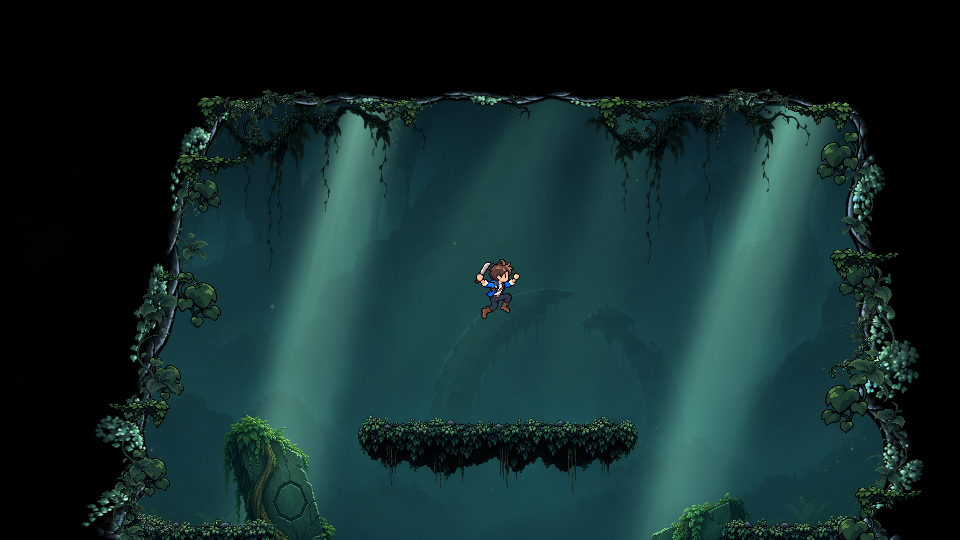
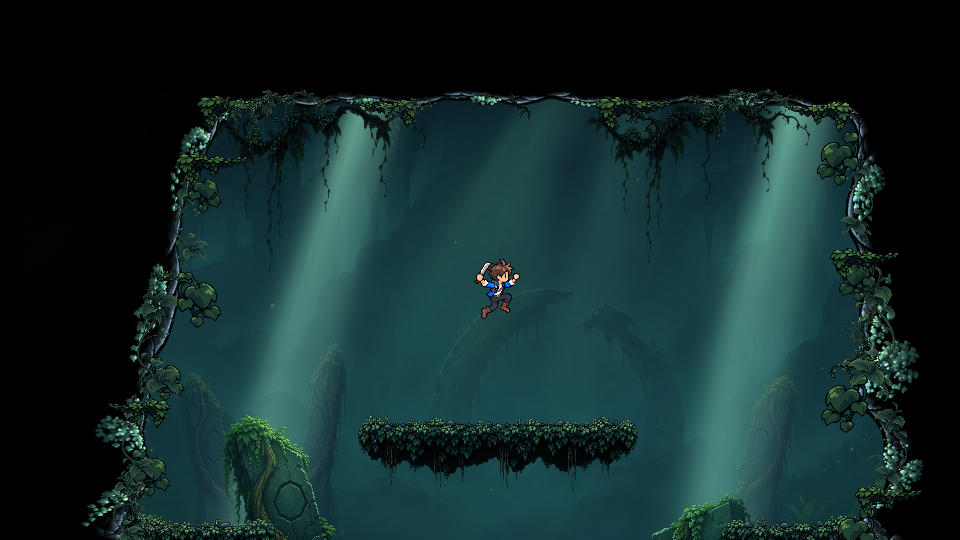
전투방 전경 조명을 잇고 원경 비석 추가

diff --git a/combat_room_lighting.py b/combat_room_lighting.py
@@ -22,16 +22,22 @@ class _Shaft:
 
 
 _SHAFTS = (
-    _Shaft(740, 480, 140, 210, (151, 232, 201), 170),
-    _Shaft(1605, 1270, 151, 223, (141, 226, 198), 186),
+    _Shaft(740, 436, 140, 210, (151, 232, 201), 170),
+    _Shaft(1605, 1380, 151, 223, (141, 226, 198), 186),
 )
 _ROWS = (
-    (0.00, 0.00), (.045, .13), (.15, .34), (.28, .53), (.40, .64),
+    (0.00, .08), (.045, .22), (.15, .39), (.28, .54), (.40, .64),
     (.53, .70), (.65, .77), (.77, .84), (.87, .90), (.95, .98), (1.00, 1.00),
 )
 _COLUMNS = tuple(i / 9 for i in range(-9, 10))
 _RIM_COLOR = (204, 238, 212)
-_FOREGROUND_POOLS = ((350, -52, 148, 101), (1540, -73, 185, 110))
+
+
+def _tint_from_shafts(x, height, tint, strength):
+    exposure = max(exp(-3.2 * ((x - shaft.center(height)) / shaft.radius(height)) ** 2)
+                   for shaft in _SHAFTS)
+    weight = max(0.0, (exposure - .07) / .93) * strength
+    return tuple(round(ambient + (lit - ambient) * weight) for ambient, lit in zip(tint, _RIM_COLOR))
 
 
 @lru_cache(maxsize=8)
@@ -75,15 +81,16 @@ class CombatRoomLighting:
                 self.scenery.soft_light(camera, (shaft.center(.13), ceiling * .13),
                                         (132, 104), shaft.color, 22)
 
-    def draw_floor_bounce(self, camera, ceiling, *, banks=None):
-        """The localized reflection hugs the floor and stays above the exit shaft."""
+    def draw_floor_bounce(self, camera, *, banks=None):
+        """Carry the shaft footprint across the exposed stone lip of each bank."""
         banks = ((0, self.scenery.room_width),) if banks is None else banks
         with self.scenery.alpha_geometry():
             for left, right in banks:
-                with self.scenery.room_clip(camera, left, right, ceiling) as visible:
+                with self.scenery.room_clip(camera, left, right, 22, bottom=-5) as visible:
                     if visible:
                         for shaft in _SHAFTS:
-                            self.scenery.soft_light(camera, (shaft.floor_x, 4), (164, 25), shaft.color, 51)
+                            self.scenery.soft_light(camera, (shaft.floor_x, 2),
+                                                    (shaft.floor_radius * .82, 19), shaft.color, 55)
 
     def draw_ledge_bounce(self, camera, ceiling, platforms):
         """Catch a little green light along each exposed stone lip."""
@@ -96,30 +103,12 @@ class CombatRoomLighting:
                             self.scenery.soft_light(camera, (shaft.center(height), top - 1),
                                                     (shaft.radius(height) * .91, 8), shaft.color, 40)
 
-    def draw_foreground_air(self, camera):
-        """A little reflected light scatters in front of the leaves below the walk line."""
-        with self.scenery.room_clip(camera, 0, self.scenery.room_width, 0, bottom=-190) as visible:
-            if visible:
-                with self.scenery.alpha_geometry():
-                    for (x, y, rx, ry), shaft in zip(_FOREGROUND_POOLS, _SHAFTS):
-                        spill_x = shaft.floor_x + (x - shaft.floor_x) * .45
-                        self.scenery.soft_light(camera, (spill_x, -22), (rx, ry * .38), shaft.color, 27)
-                        self.scenery.soft_light(camera, (x, y + 12), (rx * .77, ry * .82), shaft.color, 55)
-
     def surface_tint(self, x, y, ceiling, tint, strength=1.0):
         """Light airborne and floor vegetation close to either shaft's footprint."""
         height = min(1.0, max(0.0, y / ceiling))
-        exposure = max(
-            exp(-3.2 * ((x - shaft.center(height)) / shaft.radius(height)) ** 2)
-            for shaft in _SHAFTS
-        )
-        weight = max(0.0, (exposure - .07) / .93) * strength
-        return tuple(round(ambient + (lit - ambient) * weight) for ambient, lit in zip(tint, _RIM_COLOR))
+        return _tint_from_shafts(x, height, tint, strength)
 
     def foreground_tint(self, x, y, tint, strength=1.0):
-        """Reflected light reaches only the inner edge of the near leaves and roots."""
-        exposure = max(exp(-((x - cx) / rx) ** 2 - ((y - cy) / ry) ** 2)
-                       for cx, cy, rx, ry in _FOREGROUND_POOLS)
-        weight = strength * exposure
-        return tuple(round(ambient + (lit - ambient) * weight)
-                     for ambient, lit in zip(tint, (250, 255, 198)))
+        """Let the floor light catch the nearest leaf tips and fade down into the roots."""
+        fade = max(0.0, 1 - abs(y - 4) / 93) ** 1.5
+        return _tint_from_shafts(x, 0, tint, strength * fade)

diff --git a/combat_scenery.py b/combat_scenery.py
@@ -5,6 +5,7 @@ from contextlib import contextmanager
 from ctypes import byref, c_int
 from math import ceil, cos, floor, radians, sin, tau
 
+from PIL import Image
 from pico2d import pico2d as pico
 
 from combat_room_lighting import CombatRoomLighting
@@ -15,12 +16,39 @@ from player import ASSET_ROOT
 COMBAT_BACKGROUND_TINT = (172, 191, 224)
 COMBAT_ART_PATH = ASSET_ROOT / "terrain" / "combat-room-v2"
 COMBAT_ART = json.loads((COMBAT_ART_PATH / "manifest.json").read_text(encoding="utf-8"))
+FAR_STELES = (
+    (342, 110, 172, 428, ""),
+    (565, 126, 143, 471, "h"),
+    (1430, 134, 184, 397, "h"),
+)
 MIDGROUND_RUINS = (
     ("midground-stele", 416, -30, 332, 492),
     ("midground-broken-arch", 1110, -36, 432, 354),
 )
 FALLING_ROCKS = ((.10, .05, 19, -26), (.29, .02, -8, 34), (.48, 0, -24, -21),
                  (.68, .035, 16, 25), (.89, .06, 26, -32))
+
+
+def _load_distant_stele():
+    """Mix the stele with the cavern air and keep its original cutout."""
+    with Image.open(COMBAT_ART_PATH / "midground-stele.png") as source:
+        stele = source.convert("RGBA")
+    stele.thumbnail((360, 450), Image.Resampling.LANCZOS)
+    air = Image.new("RGB", stele.size, (23, 53, 66))
+    distant = Image.blend(stele.convert("RGB"), air, .76)
+    distant.putalpha(stele.getchannel("A"))
+
+    width, height = distant.size
+    texture = pico.SDL_CreateTexture(pico.renderer, pico.SDL_PIXELFORMAT_RGBA32,
+                                     pico.SDL_TEXTUREACCESS_STATIC, width, height)
+    if not texture:
+        raise RuntimeError(pico.SDL_GetError())
+    image = pico.Image(texture)
+    if pico.SDL_UpdateTexture(texture, None, distant.tobytes(), width * 4) != 0:
+        raise RuntimeError(pico.SDL_GetError())
+    pico.SDL_SetTextureBlendMode(texture, pico.SDL_BLENDMODE_BLEND)
+    pico.SDL_SetTextureScaleMode(texture, pico.SDL_ScaleModeLinear)
+    return image
 
 
 class CombatScenery:
@@ -34,6 +62,7 @@ class CombatScenery:
         for image in self.images.values():
             pico.SDL_SetTextureScaleMode(image.texture, pico.SDL_ScaleModeLinear)
         pico.SDL_SetTextureColorMod(self.images["background"].texture, *COMBAT_BACKGROUND_TINT)
+        self.distant_stele = _load_distant_stele()
         self.seedpods = pico.load_image(str(ASSET_ROOT / "terrain" / "moss-combat-seedpods-v1.png"))
         pico.SDL_SetTextureAlphaMod(self.seedpods.texture, 205)
         self.lighting = CombatRoomLighting(self)
@@ -115,9 +144,13 @@ class CombatScenery:
             if not visible:
                 return
             width = self.room_width * 1.14
-            x = (left + right - width) / 2 + camera.x * .10
-            far_bottom = -80 + camera.y * .10
+            far_dx, far_dy = camera.x * .10, camera.y * .10
+            x = (left + right - width) / 2 + far_dx
+            far_bottom = -80 + far_dy
             self.draw_sprite("background", camera, x, far_bottom, width, ceiling + 176)
+            for sx, sy, sw, sh, flip in FAR_STELES:
+                center = camera.world_to_screen(sx + sw / 2 + far_dx, sy + sh / 2 + far_dy)
+                self.distant_stele.composite_draw(0, flip, *center, sw * camera.zoom, sh * camera.zoom)
             # Keep the illustration's central glow behind the two brighter world-space shafts.
             with self.alpha_geometry():
                 self.soft_light(camera, (x + width * .566, far_bottom + ceiling * .945),
@@ -206,7 +239,7 @@ class CombatScenery:
         self.draw_sprite("vine-joint", camera, 244, 151, 126, 196)
         self.draw_sprite("vine-wall", camera, 1670, 489, 91, 204)
         banks = ((0, exit_left), (exit_right, self.room_width)) if broken else None
-        self.lighting.draw_floor_bounce(camera, ceiling, banks=banks)
+        self.lighting.draw_floor_bounce(camera, banks=banks)
         self.lighting.draw_ledge_bounce(camera, ceiling, platforms)
         self.vegetation.draw_terrain(camera, ceiling, exit_left, exit_right, broken=broken,
                                      tint_at=self.vegetation_tint(ceiling))
@@ -243,7 +276,6 @@ class CombatScenery:
 
             self.draw_lit_sprite("foreground", camera, 0, -318, self.room_width, 350,
                                  shade, columns=17, rows=6)
-            self.lighting.draw_foreground_air(camera)
 
     def draw_shaft(self, camera, exit_left, visibility):
         image = self.images["shaft"]

diff --git a/tests/test_combat_scenery.py b/tests/test_combat_scenery.py
@@ -3,6 +3,7 @@ import gc
 import os
 import unittest
 from ctypes import byref, c_ubyte
+from unittest.mock import patch
 
 os.environ["SDL_VIDEODRIVER"] = "dummy"
 os.environ["SDL_AUDIODRIVER"] = "dummy"
@@ -89,21 +90,36 @@ class CombatSceneryTests(unittest.TestCase):
         pico.SDL_RenderSetClipRect(pico.renderer, None)
         pico.SDL_SetRenderDrawBlendMode(pico.renderer, pico.SDL_BLENDMODE_BLEND)
 
-    def test_front_light_reaches_both_banks_without_covering_combat_or_shaft(self):
-        pico.SDL_SetRenderDrawColor(pico.renderer, 0, 0, 0, 255)
-        pico.SDL_RenderClear(pico.renderer)
-        self.scenery.lighting.draw_foreground_air(self.camera)
-        pixels = self.pixels()
+    def test_front_light_brightens_leaf_surfaces_near_both_floor_contacts(self):
+        clear_color = bytes((251, 9, 189, 255))
 
-        def color(x, y):
-            start = (y * 960 + x) * 4
-            return tuple(pixels[start:start + 3])
+        def foreground():
+            pico.SDL_SetRenderDrawColor(pico.renderer, *clear_color)
+            pico.SDL_RenderClear(pico.renderer)
+            self.scenery.draw_foreground(self.camera, COMBAT_LEFT_WALL,
+                                          COMBAT_RIGHT_WALL, COMBAT_CEILING_Y)
+            return self.pixels()
 
-        self.assertGreater(color(175, 452)[1], 20)
-        self.assertGreater(color(770, 462)[1], 20)
-        self.assertEqual(color(480, 452), (0, 0, 0))
-        self.assertEqual(color(175, 421), (0, 0, 0))
-        self.assertEqual(color(770, 421), (0, 0, 0))
+        with patch.object(self.scenery.lighting, "foreground_tint",
+                          side_effect=lambda x, y, tint, strength=1.0: tint):
+            unlit = foreground()
+        lit = foreground()
+
+        stride = 960 * 4
+        self.assertEqual(lit[:416 * stride], unlit[:416 * stride])
+        self.assertEqual(lit[495 * stride:], unlit[495 * stride:])
+        for row in range(416, 495):
+            start, end = row * stride + 400 * 4, row * stride + 560 * 4
+            self.assertEqual(lit[start:end], unlit[start:end])
+
+        for x_min, x_max in ((165, 280), (635, 752)):
+            green_channels = ((y * 960 + x) * 4 + 1 for y in range(416, 480)
+                              for x in range(x_min, x_max))
+            self.assertGreater(sum(lit[index] > unlit[index] for index in green_channels), 20)
+
+        self.assertTrue(all(lit[index:index + 4] == clear_color
+                            for index in range(416 * stride, 495 * stride, 4)
+                            if unlit[index:index + 4] == clear_color))
 
     def test_new_foreground_tracks_world_points_during_a_camera_pan(self):
         def foreground():

diff --git a/combat_vegetation.py b/combat_vegetation.py
@@ -103,8 +103,8 @@ FLOOR_EDGE = (
 NEAR_BANK = (
     Plant("near-shadow-rounded-leaves", 115, -130, 240, (109, 143, 147)),
     Plant("shadow-low-moss-lobes", 230, -83, 181, (105, 147, 152), True),
-    Plant("shadow-fern-scroll", 345, -95, 98, (109, 146, 151), True),
-    Plant("near-shadow-ribbon-grass", 1575, -102, 255, (100, 140, 145), True),
+    Plant("shadow-fern-scroll", 414, -96, 95, (109, 146, 151), True),
+    Plant("near-shadow-ribbon-grass", 1440, -69, 230, (100, 140, 145), True),
     Plant("near-shadow-rounded-leaves", 1801, -121, 261, (112, 147, 158), True),
     Plant("shadow-fern-scroll", 1701, -112, 92, (111, 151, 151)),
 )

diff --git a/README.md b/README.md
@@ -39,7 +39,7 @@
 
 이끼 동굴 구간의 최신 미술은 [미술 방향 문서](docs/environment-art-direction.md)를 따릅니다. 첫 시작 동굴과 처음 추락하는 착지방은 기존 모습으로 유지하고, 옆 이끼 통로·전투방·하강에는 검은 지형 내부, 작은 돌과 이끼 가장자리, 푸른 원경과 전경 뿌리를 적용했습니다. [이끼 통로](docs/green-style-gallery.png) · [배경 시차 GIF](docs/green-style-gallery-parallax.gif) · [전투방](docs/green-style-combat.png) · [하강 통로](docs/green-style-shaft.png).
 
-이끼 통로 오른쪽 끝의 낮은 왼쪽 입구를 통과하면 이끼 동굴 전투방으로 들어갑니다. 먼 석조 고리 앞에 기울어진 비석과 부서진 아치가 있고, 벽과 바닥을 따라 이끼와 고사리가 자랍니다. 천장 틈에서 내려오는 두 빛줄기는 먼 안개를 밝히고 유적 가장자리와 발판·바닥에 닿습니다. 화면 앞쪽의 잎과 뿌리에도 청록빛이 은은하게 반사됩니다. 왼쪽 출구로 돌아가면 유물 획득 상태는 유지하고 설치한 유물과 귀환 문양은 회수합니다. [전투 화면](docs/combat-room-lighting-gameplay.png) · [천장과 상단 발판](docs/combat-room-lighting-ceiling.png) · [중경 유적 생성 기록](assets/terrain/combat-room-v2/midground-prompts.md)
+이끼 통로 오른쪽 끝의 낮은 왼쪽 입구를 통과하면 이끼 동굴 전투방으로 들어갑니다. 안개 속 석조 고리와 먼 비석 앞에 기울어진 비석과 부서진 아치가 있고, 벽과 바닥을 따라 이끼와 고사리가 자랍니다. 천장 틈에서 내려오는 두 빛줄기는 유적과 발판 가장자리를 스치고, 바닥에 닿아 이끼와 앞쪽 잎 끝을 밝힙니다. 왼쪽 출구로 돌아가면 유물 획득 상태는 유지하고 설치한 유물과 귀환 문양은 회수합니다. [전투 화면](docs/combat-room-lighting-gameplay.png) · [천장과 상단 발판](docs/combat-room-lighting-ceiling.png) · [중경 유적 생성 기록](assets/terrain/combat-room-v2/midground-prompts.md)
 
 좌우 벽 발판은 각각 폭 280·상면 높이 248, 중앙 발판은 폭 560·상면 높이 448입니다. 세 발판 모두 두께 90이며 지면에서 좌우 발판으로 벽점프할 수 있습니다. 카메라는 일반 탐험 배율에서 캐릭터의 높이를 따라갑니다. 방 중앙 ±80 월드 단위에 도달하면 왼쪽 차단벽이 0.55초 동안 올라옵니다. 차단벽이 닫히면 공벌레(HP30) 두 마리, 모두 처치하면 중앙 발판에서 수정 골렘(HP45) 두 마리가 등장합니다. 차단벽이 움직일 때 먼지와 짧은 진동이 발생하며, 전투 중 입구를 통한 이동과 차단벽 밖으로 향하는 유물 이동이 제한됩니다.
 

diff --git a/.memoc/03-decisions.md b/.memoc/03-decisions.md
@@ -17,7 +17,7 @@ Durable project decisions live here. Keep entries short, dated, and useful to fu
 
 - 2026-11-26 B1 둥지는 습한 암굴과 무너진 수로를 그리고, 중앙에는 차가운 틈빛, 오른쪽 입구에는 작은 온색 반사광을 둔다. 발판·레일·천장은 월드 고정이다. [레이어와 카메라](../assets/concepts/b1-hermit-crab/room-art-v3/README.md)
 
-- 2026-11-26 첫 전투방의 승인 시안은 기존 세 발판의 위치와 충돌 판정을 기준으로 적용한다. 중경 비석과 아치는 장식으로 넣고, 빛줄기는 원경 안개와 중경 표면, 보행면 반사광과 앞쪽 잎의 산란광으로 나눠 그린다. 플레이어와 적의 외곽 및 중앙 하강 입구가 읽히도록 조명과 식생의 범위를 제한한다.
+- 2026-11-26 첫 전투방의 승인 시안은 기존 세 발판의 위치와 충돌 판정을 기준으로 적용한다. 중경 비석과 아치는 장식으로 배치한다. 먼 비석은 기존 원화의 알파를 유지하고 RGB만 공기색에 가깝게 섞는다. 천장 빛줄기의 바닥 도달 범위를 보행면의 반사광과 전경 잎의 색 보정에 공유하고, 앞쪽 잎에서는 윗면에서 아래로 빛을 줄인다. 플레이어와 적의 외곽 및 중앙 하강 입구가 읽히도록 조명과 식생의 범위를 제한한다.
 
 - 2026-11-26 사용자 지정으로 B1 포효의 보스 자세는 기존 이미지를 확대하거나 변형하지 않고 [새로 그린 자세](../assets/concepts/b1-hermit-crab/roar-v2/README.md)를 사용한다.
 

diff --git a/.memoc/worklog/codex/2026-11/20261126-map1-combat-room-foreground-light.md b/.memoc/worklog/codex/2026-11/20261126-map1-combat-room-foreground-light.md
@@ -1,0 +1,6 @@
+# 첫 전투방의 천장빛과 전경 식생 연결
+
+- 바닥 아래 공기에서 둥글게 퍼지던 빛을 걷어내고, 천장 빛줄기의 바닥 도달 범위를 바닥 이끼와 전경 잎의 색 보정에 함께 사용한다. 밝은 부분이 잎 윗면에서 아래로 줄고 원래 외곽과 알파가 유지되도록 기존 식생을 활용한다. [맵 미술 지침](../../../../MAP_VISUAL_GUIDE.md#7-조명과-접지감)
+- 전경 식생 끝이 바닥 가장자리에서 빛을 받도록 배치한다. 세 발판과 충돌 판정은 기존 값을 사용한다.
+- 원경에는 중경 비석의 크기와 기울기를 달리한 세 실루엣을 배치한다. 원본 알파를 보존하고 RGB를 동굴 공기색에 가깝게 섞어 가까운 비석보다 대비를 낮춘다.
+- [바닥 전투](../../../../docs/combat-room-lighting-gameplay.png)와 [상단 시점](../../../../docs/combat-room-lighting-ceiling.png)은 같은 구도의 SDL 화면으로 확인한다. 하강 입구와 수정탄은 `./.venv/Scripts/python.exe tools/preview_combat_atmosphere.py --projectiles --animate --output-dir .cache/foreground-light-with-ruins`로 확인할 수 있다.

diff --git a/.memoc/02-current-project-state.md b/.memoc/02-current-project-state.md
@@ -15,6 +15,8 @@ Last synced: 2026-11-05T03:23:05
 
 ## Current Status
 
+- 2026-11-26 첫 전투방에서 천장 빛줄기가 닿는 월드 좌표를 기준으로 바닥 가장자리 이끼와 가까운 잎을 밝힌다. 잎의 기존 실루엣을 따라 윗면에서 아래로 빛을 줄인다. 같은 비석을 원경에 세 곳 배치하고 RGB를 공기색에 가깝게 섞었다. [바닥 전투 화면](../docs/combat-room-lighting-gameplay.png) · [맵 미술 지침](../MAP_VISUAL_GUIDE.md#7-조명과-접지감)
+
 - 2026-11-26 [B1 보스방 레이어 미술](../assets/concepts/b1-hermit-crab/room-art-v3/README.md)을 게임 테스트에 연결했다. 원경·중경·전경 PNG, 천장 광막, 입구 반사광과 입구→전투 카메라 검수 영상을 저장했다.
 
 - 2026-11-26 [B1 포효 게임 테스트 장면](../assets/concepts/b1-hermit-crab/roar-v4/README.md)을 추가했다. `python -m tools.preview_b1_roar_game`은 게임의 SDL 렌더러와 플레이어로 낙석 직후의 포효를 보여 준다. C 전실과 본편 진행은 유지했다.

diff --git a/.memoc/session-summary.md b/.memoc/session-summary.md
@@ -12,7 +12,7 @@ tags:
 # Session Summary
 Last: 2026-11-26 (Asia/Seoul)
 
-- 전투방 이끼·중경 유적·빛줄기 2개 적용. 발판·충돌 유지.
+- 전투방 원경 비석 추가. 틈빛을 바닥 이끼·앞쪽 잎까지 연결.
 - B1 전투 가안 `docs/b1-hermit-crab-combat-design.md`.
 - B1 새 레이어·빛·카메라 SDL 검수. 본편 미연결.
 - A–B 절벽 접합·비석/식생 깊이 적용.
